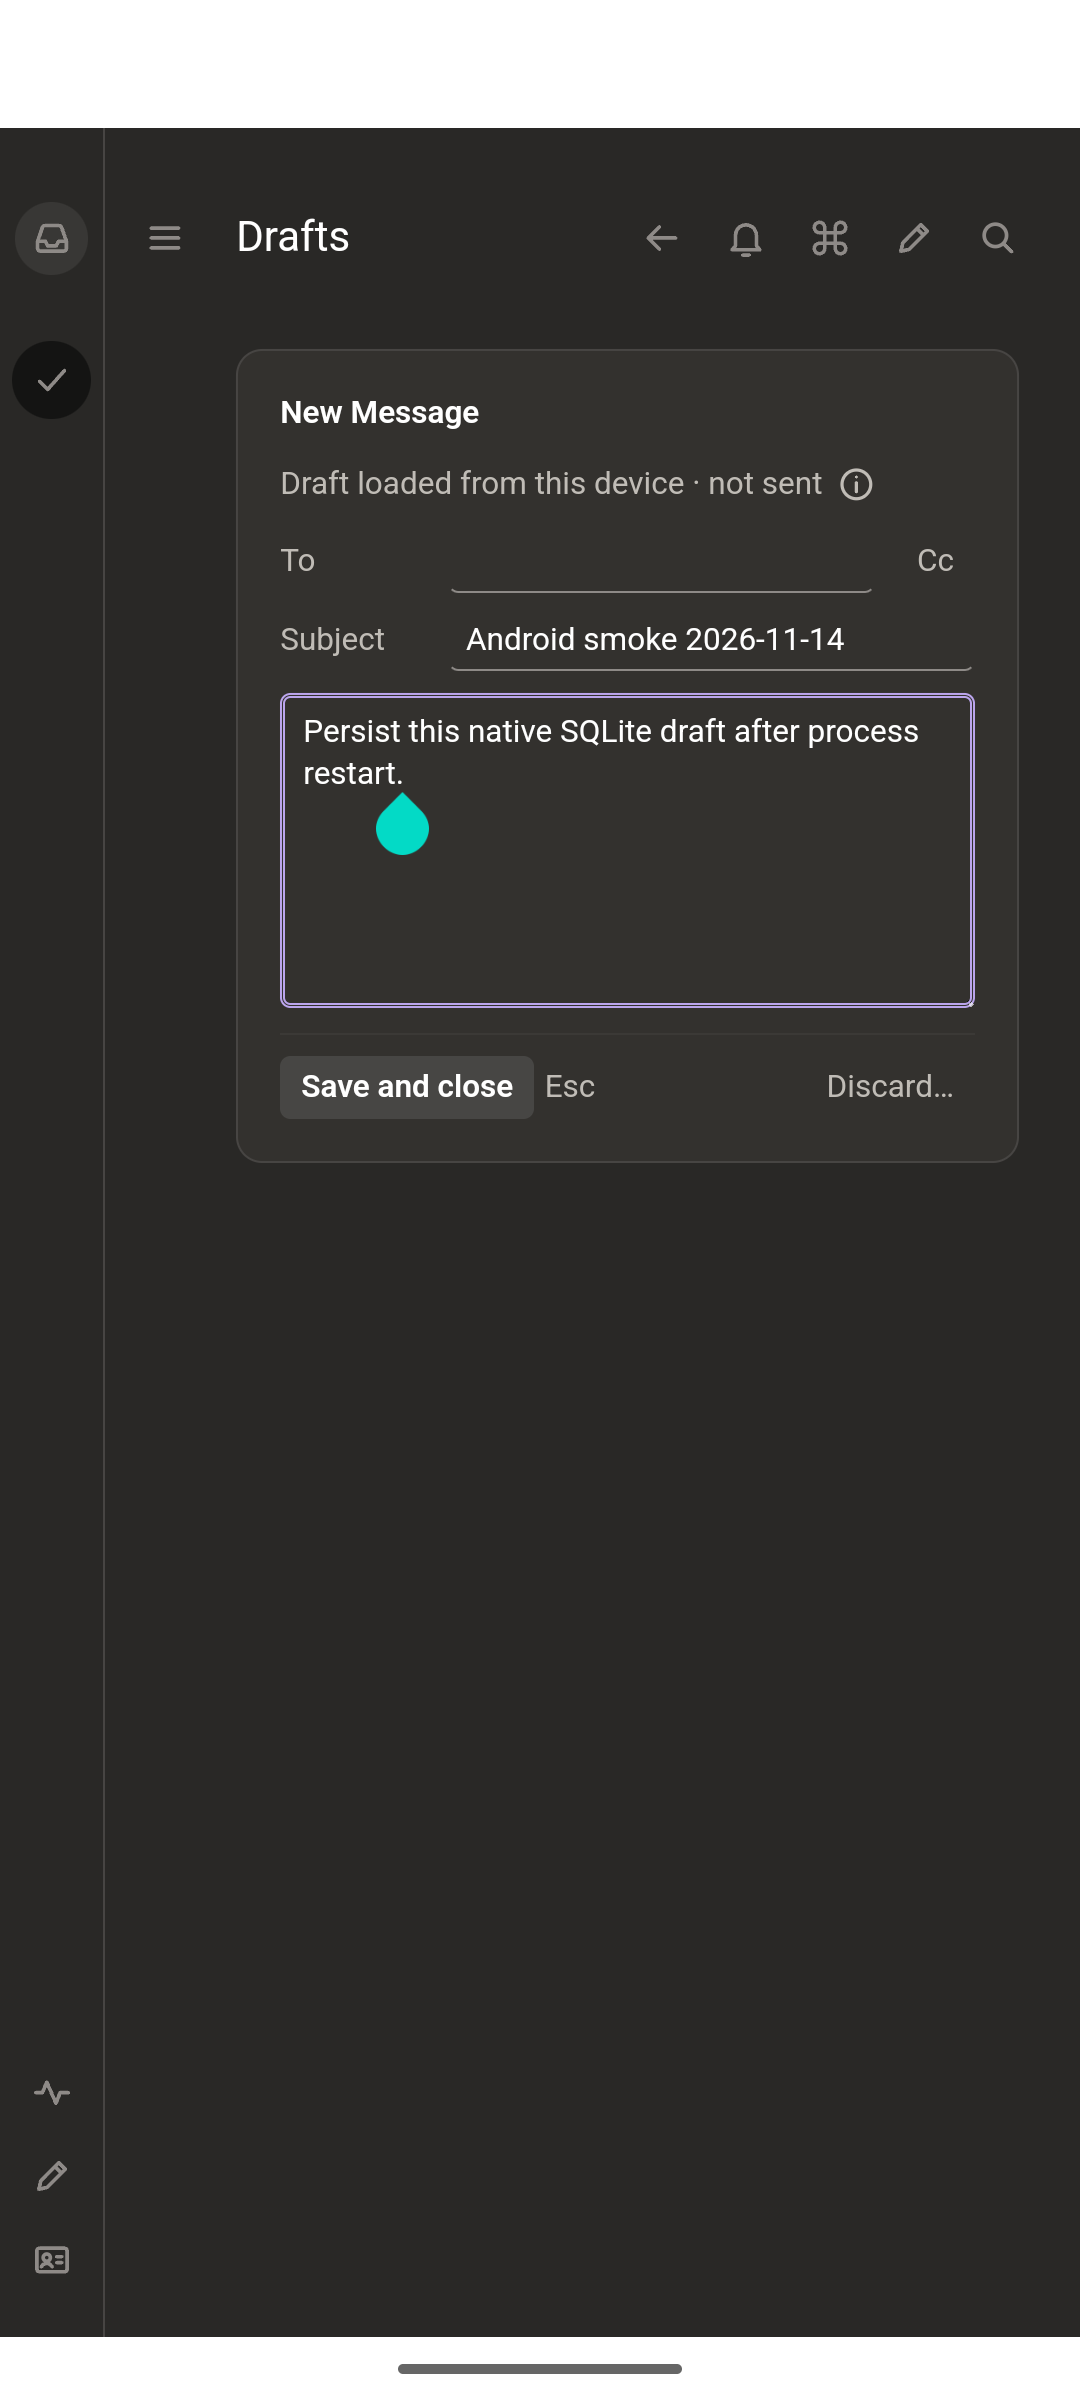
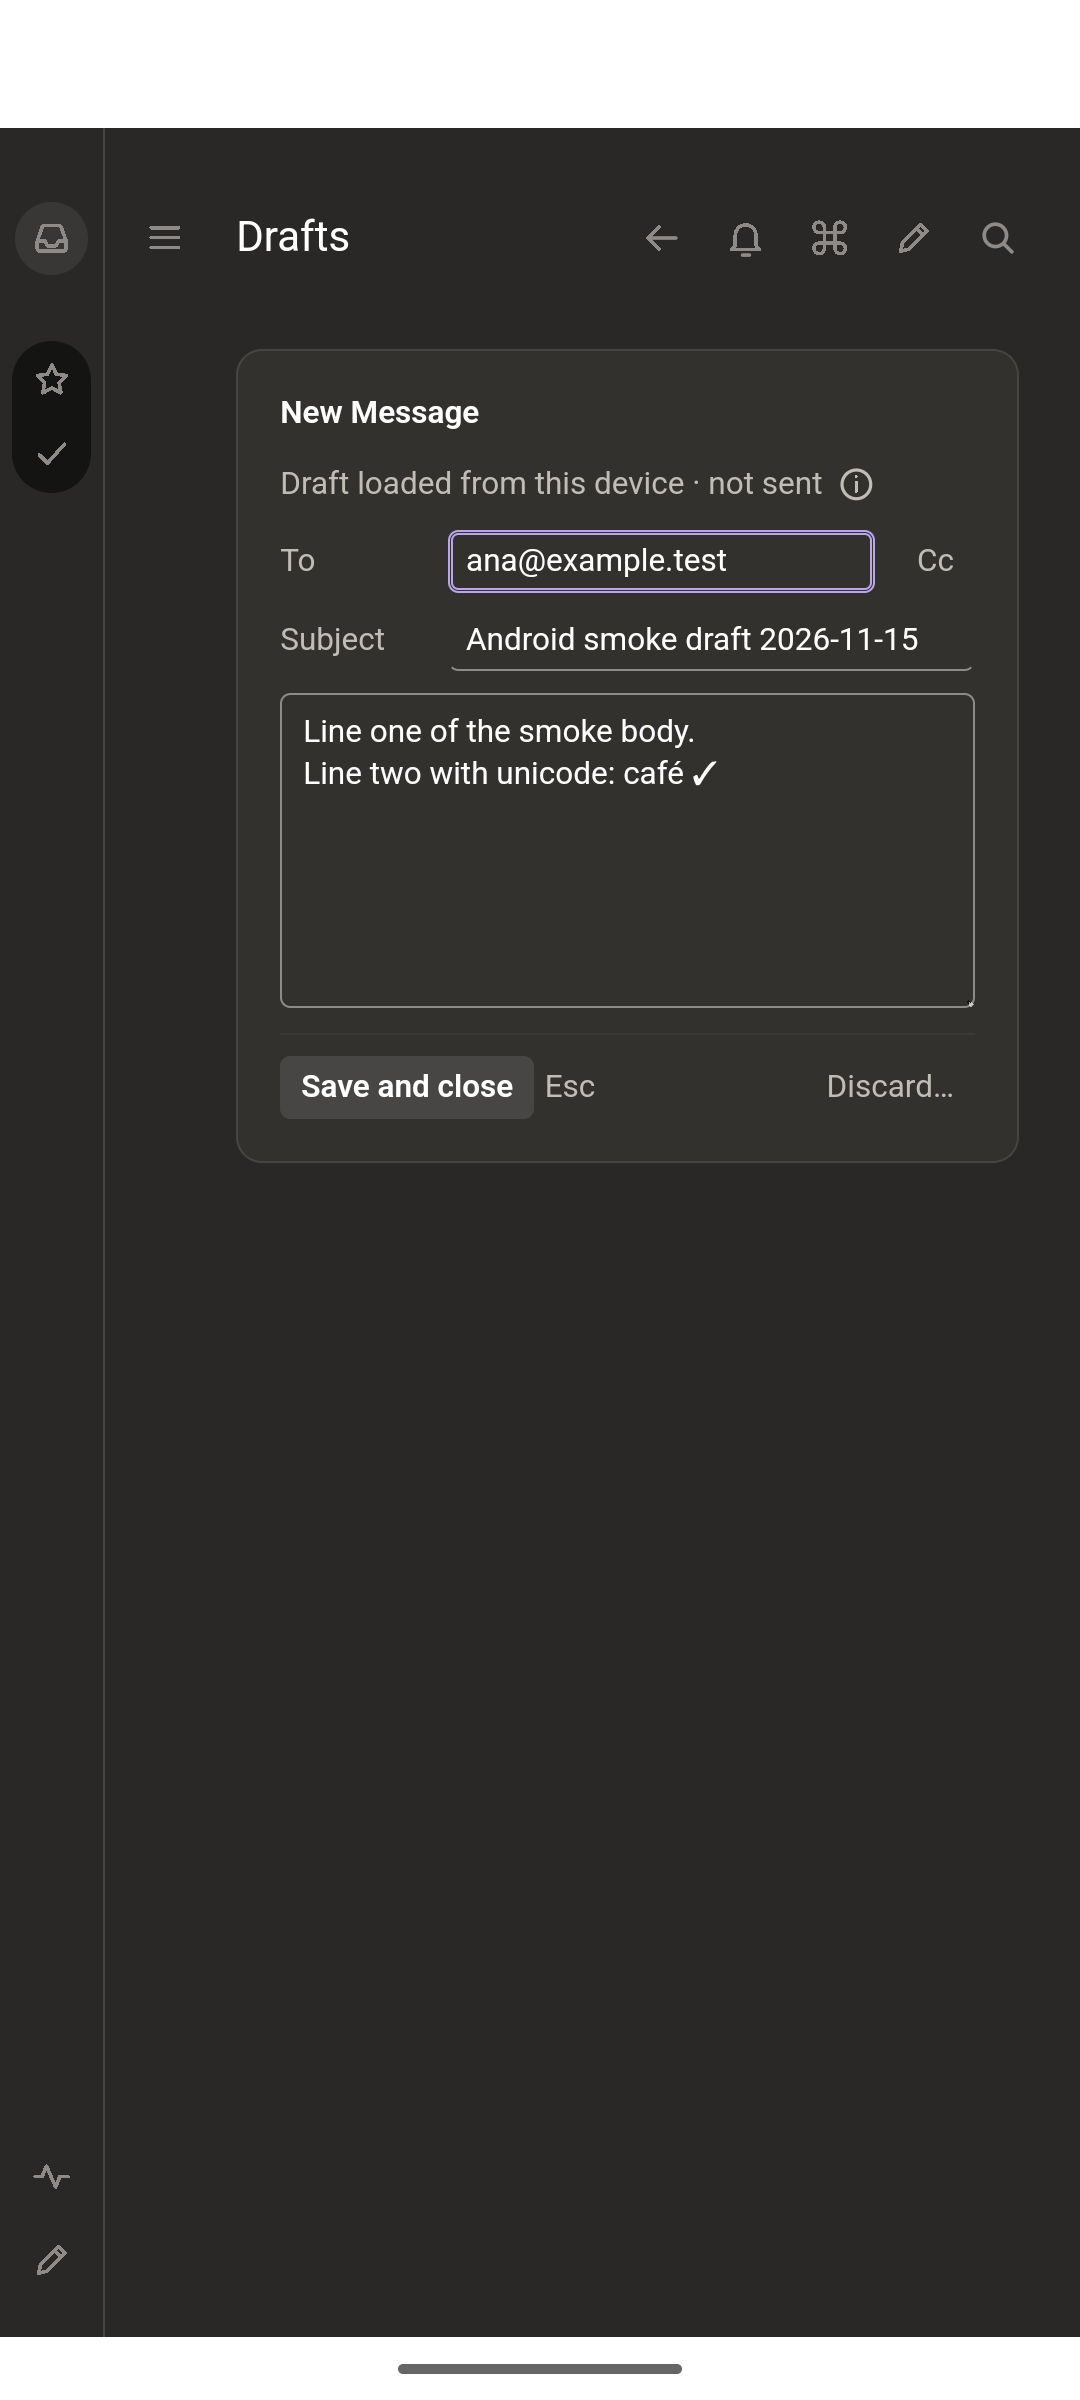
docs: record the 2026-11-15 Android unified-fixture smoke and findings
Fresh install, restart persistence, Undo, read/unread, star, drafts and the
legacy-fixture reset were run on an Android 15 emulator against the CI APK for
3061e54. Findings (one first-launch ANR, overlapping reader toolbar, Undo
expiry, cramped drafts row, reset-screen copy) are recorded as observed.

Entire-Checkpoint: 01M7FQNZ3V0TQ55QZ6QV7JCZYJ

diff --git a/docs/current-status.md b/docs/current-status.md
@@ -21,10 +21,12 @@ research and architecture proposals are not feature inventories.
 The Android fixture target builds a debug APK for ARM64 and x86_64 from the
 shared Rust shell. It uses SQLite and the same synthetic fixture core as desktop
 (ADR 0002); Gmail, attachment export, and external link dispatch are
-unavailable. APK build passed on 2026-11-14 (before the unified fixture became
-the default: re-run the smoke). A pre-existing legacy fixture database is
-retired once behind a startup screen. Device smoke passed on an Android 15 x86_64 emulator. See
-the [Android smoke steps](development.md#android-fixture-apk).
+unavailable. APK build passed on 2026-11-14. A pre-existing legacy fixture
+database is retired once behind a startup screen. The unified-fixture APK was
+smoke-tested on an Android 15 x86_64 emulator on 2026-11-15 (see below), with open
+findings: an ANR on one first launch, an overlapping reader toolbar, and Undo
+that only works inside the toast window. See the
+[Android smoke steps](development.md#android-fixture-apk).
 
 Mode selection is deliberate: native defaults to fixture; `EMAIL_OS_MODE=gmail`
 selects a separate Gmail profile. Browser preview remains synthetic. See the
@@ -55,6 +57,113 @@ Gmail consent/deny/cancel flows, live provider convergence, Keychain behavior,
 WKWebView behavior, or native attachment/download handling. Check the contracts
 for feature-specific pending gates before treating a feature as operationally
 validated.
+
+### Android unified-fixture smoke (2026-11-15)
+
+Run on Android 15 (`t3-pixel`, x86_64 emulator) with the CI debug APK from the
+push run on `3061e54` (run 43696254970, artifact `email-os-android-fixture-debug`),
[1 lines of base64/hex data omitted]
+The legacy-reset test used the CI APK from run 43645874365 (PR #63, head `63f7ab8`),
[1 lines of base64/hex data omitted]
+Neither APK was built locally. The UI was driven with `agent-device`; `adb` was used
+for installs, `run-as` file inspection and logs only. Synthetic data only.
+
+**Fresh install of the `3061e54` APK**
+
+- The Inbox rendered 16 rows, 6 Read and 10 Unread. A conversation opened.
+- Mark read and Mark unread worked from the reader button and from the row menu.
+  Star and Unstar worked from the command palette (the row menu and reader toolbar
+  have no star control); the starred conversation appeared under Cached Starred.
+- Mark done archived the conversation and the Inbox count went from 16 to 15. The
+  reader stayed open on a neighbouring conversation rather than returning to the
+  Inbox. After killing the process (`am force-stop`) and relaunching, the archived
+  conversation was still absent (Inbox 15).
+- Undo after Mark done restored the row ("Restored" toast, row back in the Inbox,
+  still Unread). A first attempt did not: Undo was tapped several tool calls (well over a few
+  seconds) after Mark done, and the toast showed "Undo expired — Mark not done
+  restores the whole conversation to Inbox". A second attempt, with Undo tapped about
+  two seconds after Mark done, worked. I did not measure the toast duration.
+- Gmail account controls and Files and links were not present in the accessibility
+  tree of the Inbox, three reader views, the command palette or the Destinations
+  palette.
+- A draft (To, Subject, two-line body with `café ✓`) showed "Saved locally · not
+  sent". After sending Email OS to Android Settings and back (same process, pid
+  unchanged) the editor still held all three fields. After killing the process, the
+  Drafts list had the draft and opening it showed the exact To, Subject and body
+  ("Draft loaded from this device · not sent").
+
+**Legacy reset (pre-unification APK, then `3061e54` APK)**
+
+Route: `adb install -r` of the main APK over the old one was refused with
+`INSTALL_FAILED_UPDATE_INCOMPATIBLE` (the two CI debug APKs have different signing
+certificates: SHA-256 `f2e7be56…` for run 43645874365, `7880429c…` for run
+43696254970). So the data was carried across with `run-as`: the old install's
+`fixture-profile/` was tarred out, the old app uninstalled, the main APK installed
+and never launched, and the tarball extracted back into its data directory.
+
+- In the old APK I archived Plumbing (Inbox 16 to 15) and saved a draft
+  (`legacy@example.test`, "Legacy draft before unification", two-line body). The
+  profile held `mail.db` and `local-drafts/drafts.db`.
+- On first launch of the main APK, the "Your demo mailbox is being renewed" screen
+  appeared with no mailbox behind it. Closing the app there left `mail.db`,
+  `mail.db-wal` and `drafts.db` byte-identical (SHA-256 prefixes compared), and the
+  next launch showed the screen again.
+- Tapping "Back up and start fresh" led to the mailbox with 16 Inbox rows (6 Read,
+  10 Unread) including Plumbing, so the archive had been reset. The saved draft
+  opened with its exact text. `fixture-profile/` now had one backup
+  (`backups/mail-20261115T135002Z.db`, 102,400 bytes, `fixture-transition.json`
+  state `done`), and `mail.db` was gone. The backup pulled to the host passed
+  `PRAGMA integrity_check` and held 18 conversations and 1 operation.
+- A second launch (after killing the process) showed the Inbox directly, no reset
+  screen.
+
+**Findings**
+
+- ANR on the first cold launch after the fresh install. logcat: `ANR in
+  dev.exedev.emailos.androidfixture ... Input dispatching timed out ... Waited
+  5000ms for FocusEvent(hasFocus=true)`. The host was busy (load average 4.1 on 4
+  cores, CPU pressure `some avg10=50`, `kswapd0` active). The system dialog
+  "email-os isn't responding" is in
+  [first-launch-anr.png](<validation/android-smoke/first-launch-anr.png>). The Inbox
+  had rendered behind it. A relaunch did not ANR, and neither did the six or so
+  later cold launches. I did not reproduce it.
+- The reader toolbar buttons overlap on this screen width: the UI tree reports Close
+  (Esc) at x 212–301 and Remind me on this device at x 199–286, and the "Inbox"
+  title is drawn over the icons
+  ([reader-toolbar-overlap.png](<validation/android-smoke/reader-toolbar-overlap.png>)).
+  Tapping Close (Esc) twice opened the reminder UI instead of closing the reader.
+- Starting the app over the legacy profile created `gmail.db` and
+  `synthetic-provider.db` before the reset was
+  accepted. The legacy files were unchanged, but the screen's "Nothing is changed"
+  covers only the old mailbox.
+- The reset screen says "The 18 sample conversations return to their original
+  state"; the Inbox after reset shows 16 rows.
+- The Drafts list row is cramped: the To is cut to `ana@exampl…`, the subject shows
+  as "Ar", and Discard is inline
+  ([drafts-list-truncated-row.png](<validation/android-smoke/drafts-list-truncated-row.png>)).
+- Every Inbox row carries "Has attachments", including Invoice 4471, whose preview
+  says the fixture has no attachments. I did not open an attachment.
+
+Screenshots: [reset screen](<validation/android-smoke/legacy-reset-screen.png>),
+[legacy draft after reset](<validation/android-smoke/legacy-draft-after-reset.png>),
+[Inbox on second launch](<validation/android-smoke/inbox-after-reset-second-launch.png>),
+[Undo restored](<validation/android-smoke/mark-done-undo-restored.png>),
+[draft saved](<validation/android-smoke/draft-saved-before-restart.png>) and
+[draft recovered](<validation/android-smoke/draft-recovered-after-restart.png>).
+The last two replace the 2026-11-14 images of the same name.
+
+**Not verified**
+
+- IME layout: text was entered with `agent-device fill` and the soft keyboard did not
+  appear.
+- Whether star, read/unread or the Undo result survive a process restart. Only the
+  archived conversation and the drafts were checked after a restart.
+- Closing the reset screen by swiping the app away from Recents. The cancel path was
+  tested with `am force-stop`.
+- ARM64 devices, physical devices, other Android versions, and any Gmail, network
+  or attachment behaviour.
+- The data directory the emulator held before this run (the 2026-11-14 install) was
+  backed up before uninstalling; it was not restored afterwards.
 
 ### Android fixture target (2026-11-14)
 

diff --git a/docs/development.md b/docs/development.md
@@ -131,7 +131,10 @@ For the device smoke check, build the APK and install it on an attached Android
 device or emulator. Use device interaction tools to launch the app and verify:
 
 1. The fixture inbox renders and a conversation opens.
-2. Mark done works and returns to the inbox.
+2. Mark done works. The reader moves to a neighbouring conversation (it does not
+   return to the inbox); open the inbox to confirm the count dropped. Tap Undo within
+   a couple of seconds and confirm the row returns. Mark read/unread (reader button or
+   row menu) and Star/Unstar (command palette) also work.
 3. Gmail controls and Files and links are absent.
 4. Compose a draft, wait for “Saved locally · not sent”, then close the app
    process.
@@ -143,7 +146,21 @@ device or emulator. Use device interaction tools to launch the app and verify:
 Record the device/API version, APK path, persistence results, and screenshots.
 These steps passed on 2026-11-14 on an Android 15 x86_64 emulator, using APK
[1 lines of base64/hex data omitted]
-The keyboard stayed hidden during draft entry, so IME layout remains unverified.
+They were re-run on 2026-11-15 with the unified-fixture CI APK
[1 lines of base64/hex data omitted]
+open findings are in [current-status.md](current-status.md). The keyboard stayed
+hidden during draft entry, so IME layout remains unverified.
+
+Legacy reset check (when changing the transition): install an APK from before ADR
+0002, archive a conversation and save a draft, then run the new APK over the same
+profile. `adb install -r` is refused when the two APKs are signed with different
+debug keys (`INSTALL_FAILED_UPDATE_INCOMPATIBLE`, as between the CI runs used on
+2026-11-15). In that case tar `fixture-profile/` out with `adb exec-out run-as
+dev.exedev.emailos.androidfixture tar -cf - fixture-profile`, uninstall, install the
+new APK without launching it, and extract the tarball back with `adb shell run-as ...
+tar -xf -`. Confirm the reset screen appears before any mailbox, closing the app
+there changes nothing, accepting it shows 16 Inbox rows with the draft intact, and
+`fixture-profile/backups/` holds one backup while `mail.db` is gone.
 
 If an older APK fails during startup with a profile-lock storage error, build
 and install the current version. Android uses nonblocking `flock` for profile
